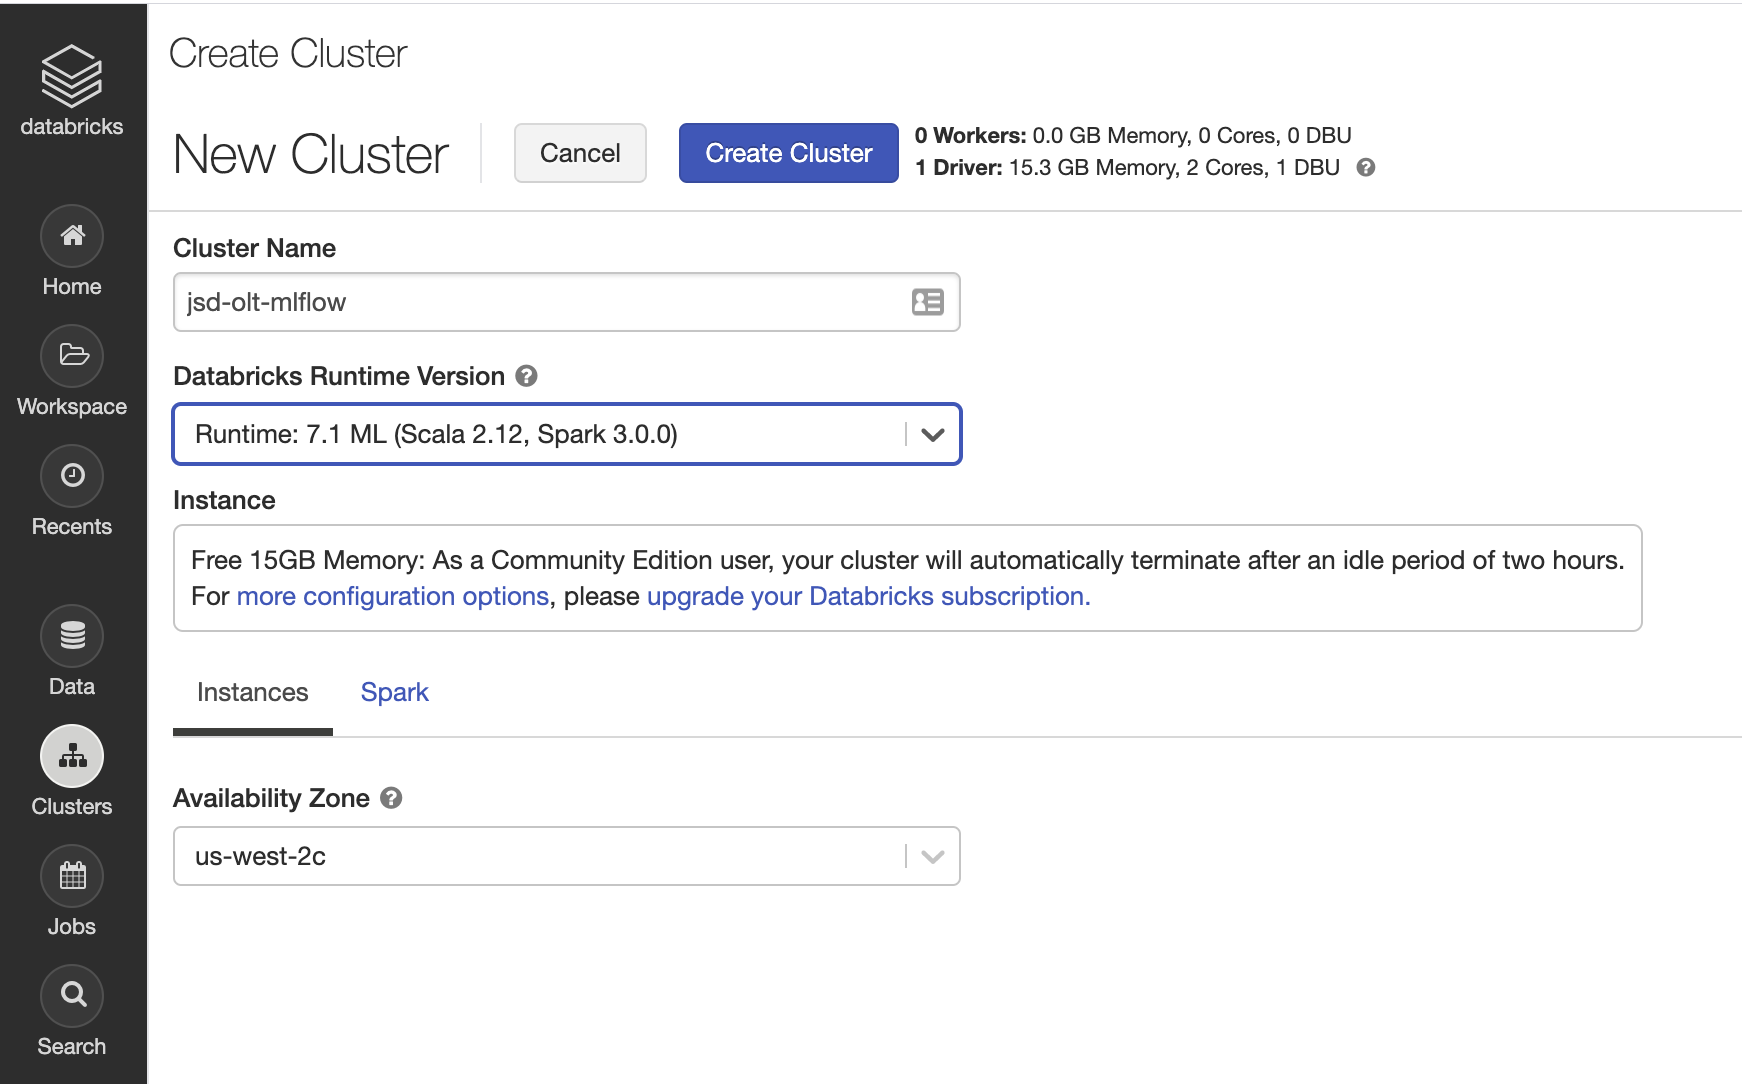
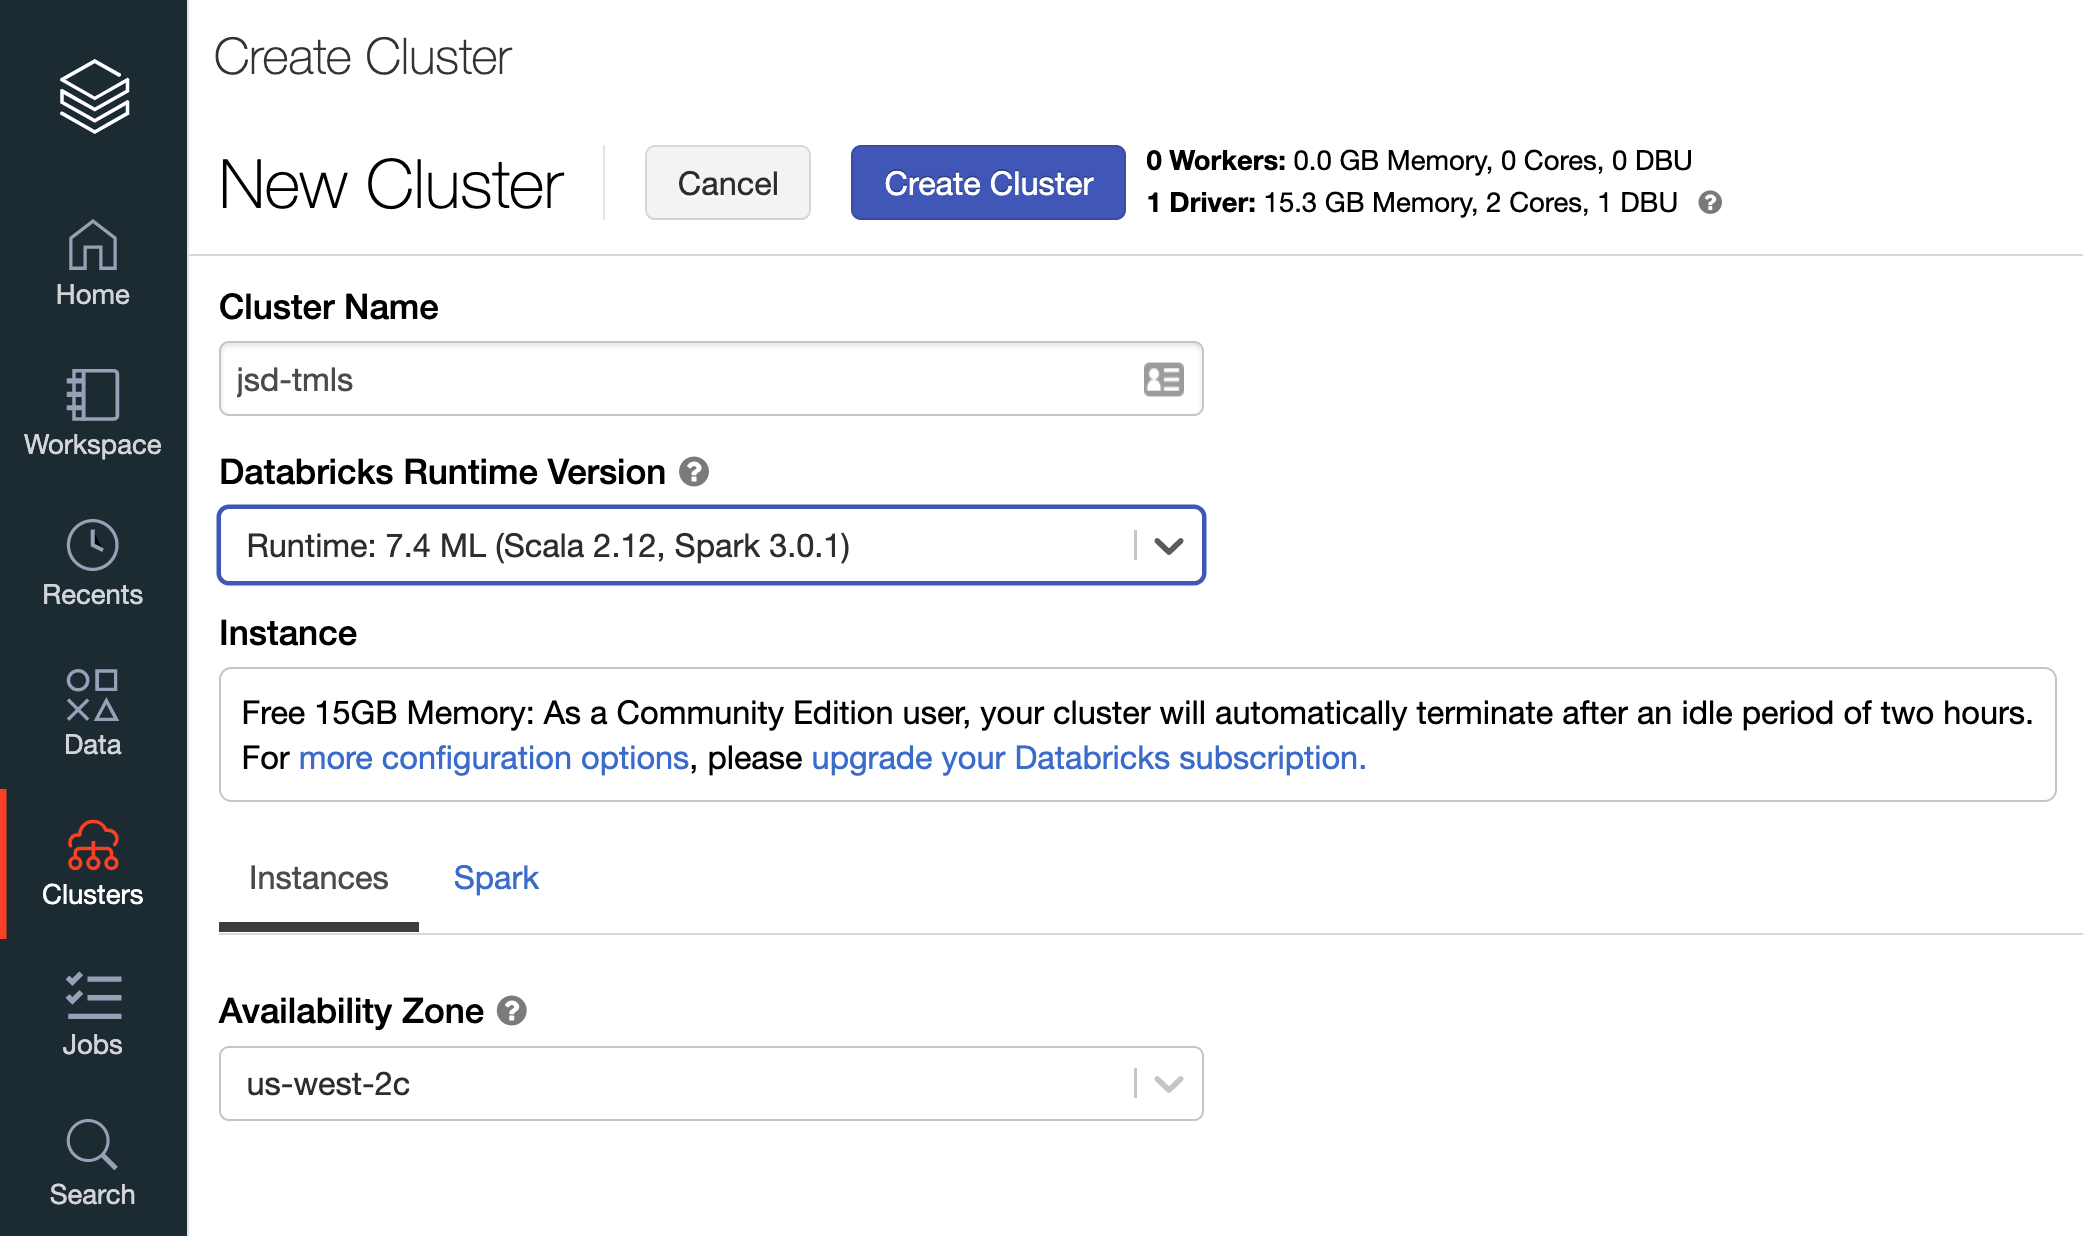
removed the import image

diff --git a/projects/README.md b/projects/README.md
@@ -96,15 +96,13 @@ We will walk through this during the session, but please sign up for [Databricks
 
 ![](../images/databricks_ce_loging.png)
 
-3. Create a ML Runtime 7.1+ with Spark 3.0.0 Cluster
+3. Create a ML Runtime 7.4 with Spark 3.0.1 Cluster
 
 ![](../images/databricks_ce_create_mlr.png)
 
 4. In the brower: 
   * (1) Go the GitHub **projects/notebooks/dbc/** subdirectory
   * (2) Download **MLFlow-Projects.dbc** file on your laptop
-
-![](images/databricks_ce_download_notebooks.png)
 
 5. Import the **MLFlow-Projects.dbc** file into the Databricks Community Edition
 

diff --git a/tracking/README.md b/tracking/README.md
@@ -102,8 +102,6 @@ We will walk through this during the session, but please sign up for [Databricks
   * (1) Go the GitHub **tracking/notebooks/dbc/** subdirectory
   * (2) Download **MLFlow-Tracking.dbc** file on your laptop
 
-![](../images/databricks_ce_download_notebooks.png)
-
 5. Import the **MLFlow-Tracking.dbc** file into the Databricks Community Edition
 
 ![](images/databricks_ce_import_notebooks.png)

diff --git a/models/README.md b/models/README.md
@@ -106,8 +106,6 @@ We will walk through this during the session, but please sign up for [Databricks
   * (1) Go the GitHub **projects/notebooks/dbc/** subdirectory
   * (2) Download **MLFlow-Models.dbc** file on your laptop
 
-![](images/databricks_ce_download_notebooks.png)
-
 5. Import the **MLFlow-Projects.dbc** file into the Databricks Community Edition
 
 ![](../images/databricks_ce_import_notebooks.png)
